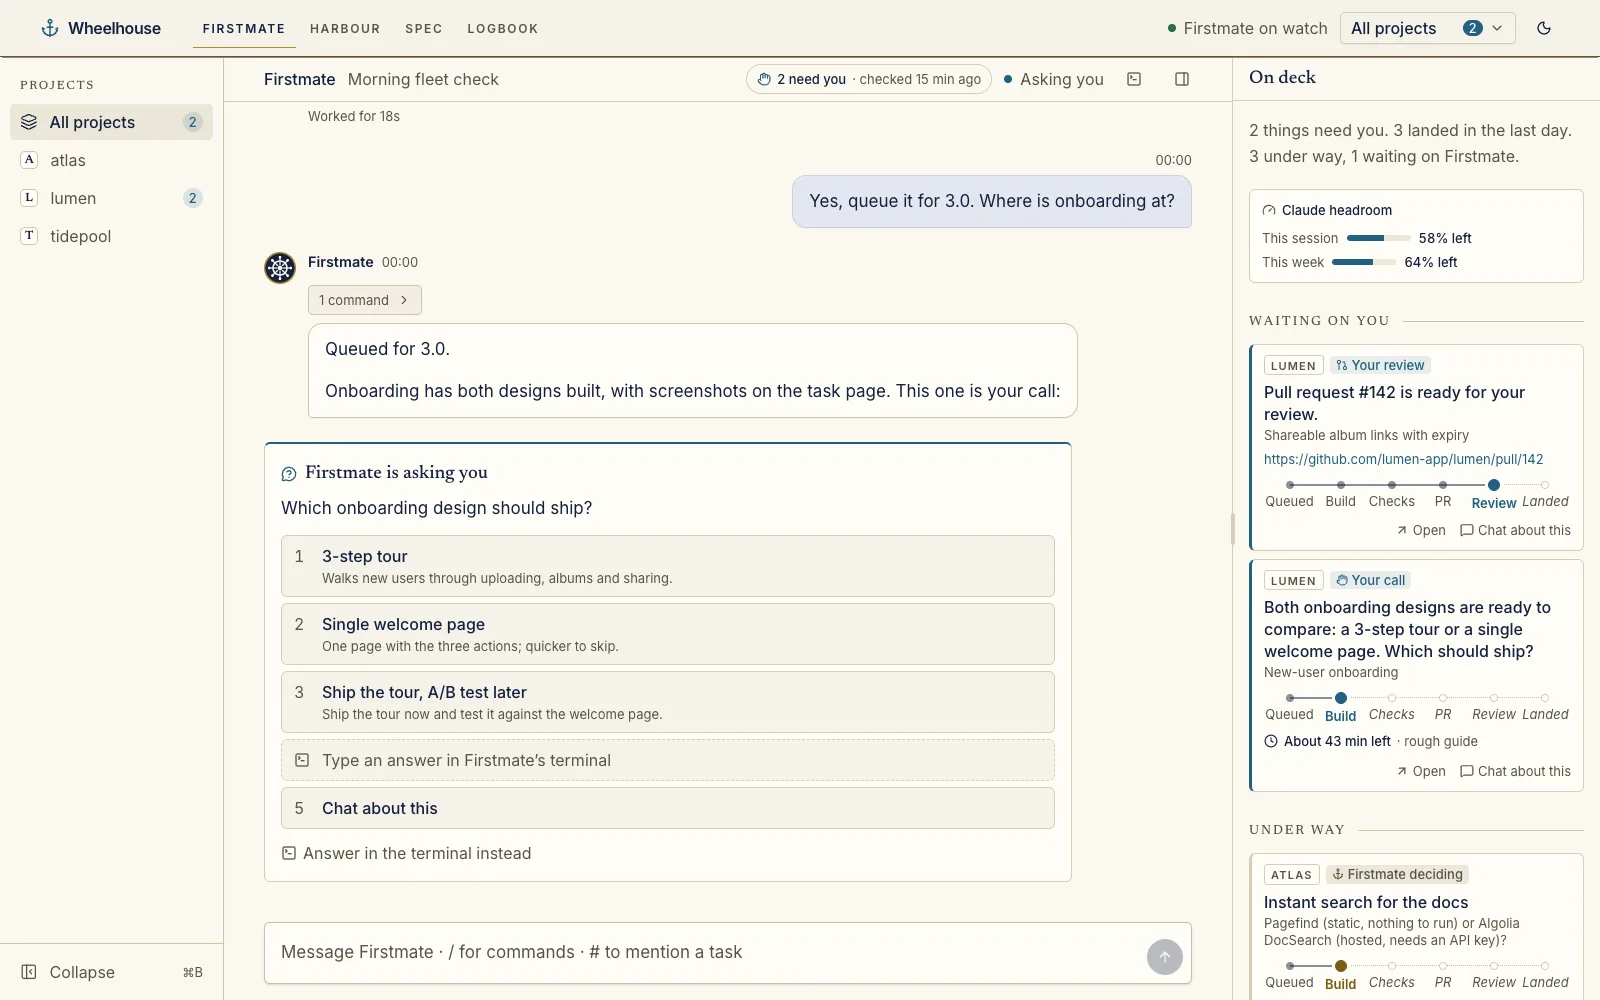
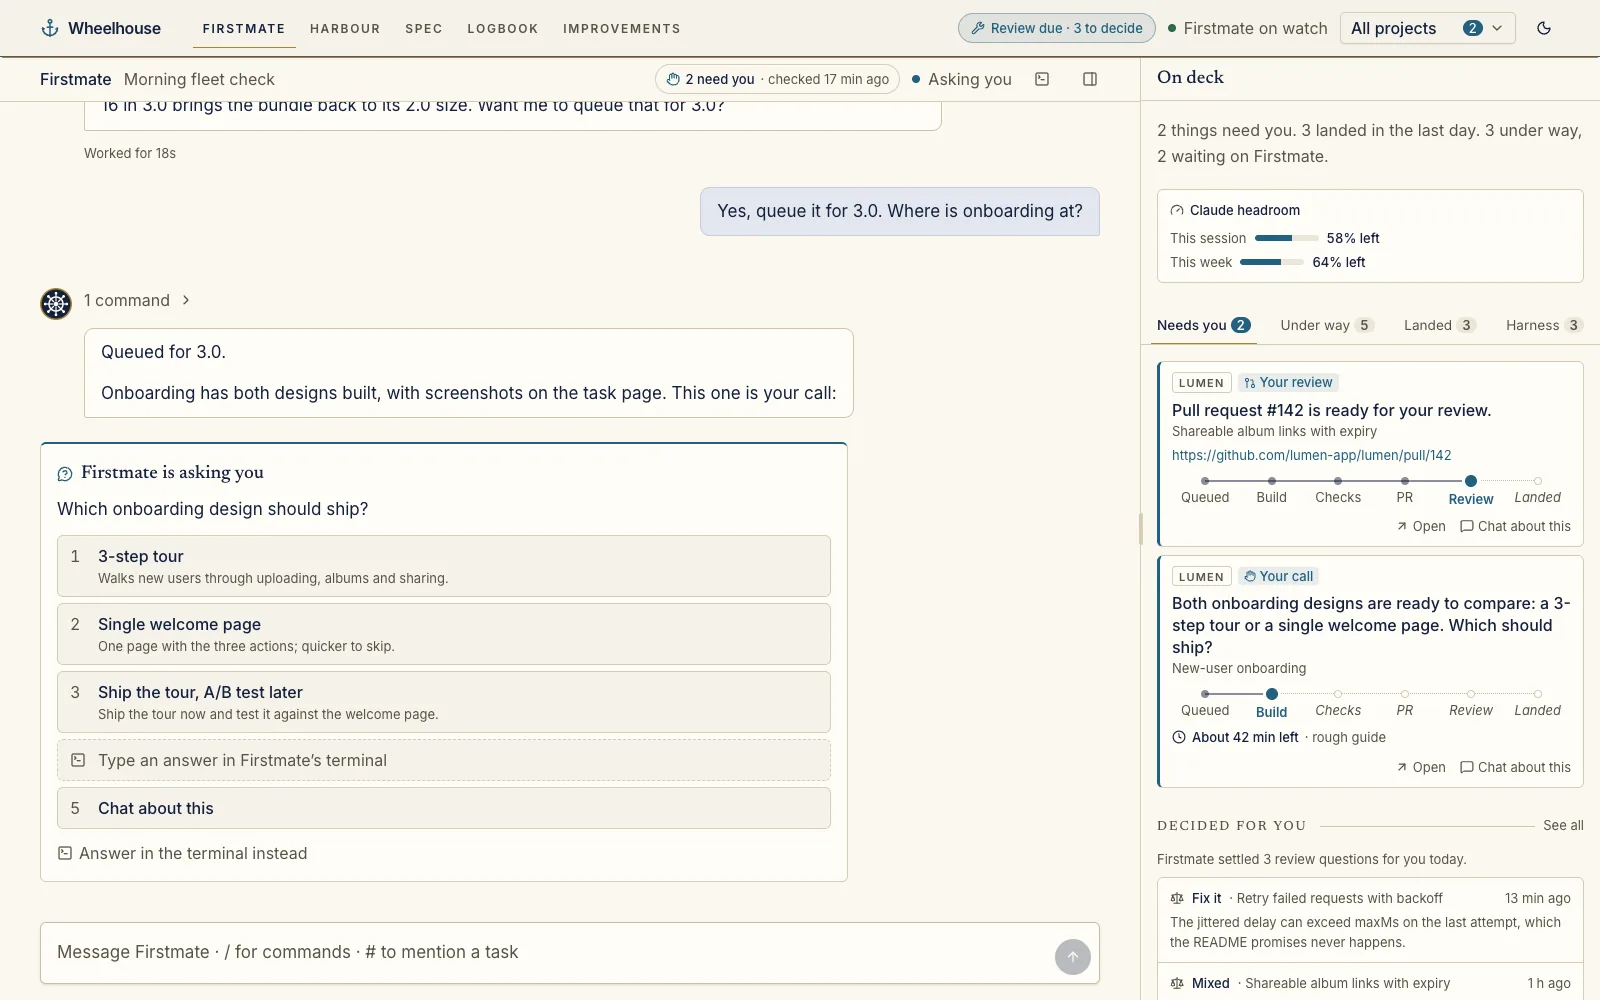
docs: refresh the README home screenshot for the tabbed On deck rail

diff --git a/README.md b/README.md
@@ -6,7 +6,7 @@
 
 Wheelhouse is the bridge for [Firstmate](https://github.com/kunchenguid/firstmate). Talk to Firstmate, see at a glance what your crew is doing and what is waiting on you, and review real results (screenshots, live previews, green CI) from one calm page on your own machine.
 
-![Wheelhouse: the conversation with Firstmate on the left, with a question asked as buttons, and on the right what is waiting on you and what is under way](docs/screenshots/home.webp)
+![Wheelhouse: the conversation with Firstmate on the left, with a question asked as buttons, and on the right, in tabs, what needs you, what is under way, what landed and the harness's health](docs/screenshots/home.webp)
 
 <sub>Screenshots show a demo crew working on made-up projects.</sub>
 
